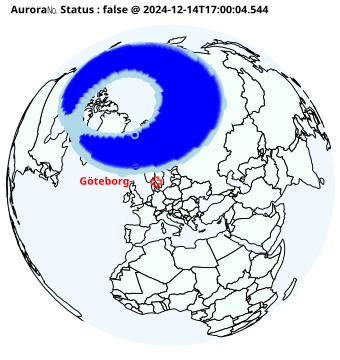
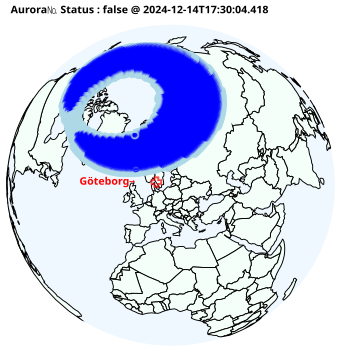
20241214173017 added aur.html

diff --git a/aur.html b/aur.html
@@ -7,6 +7,6 @@
 <body>
     <h1>Aurora Watch</h1>
     <img src="a.png" alt="Aurora Image" style="width:100%;max-width:600px;">
-    <p>Aurora Level 🌌= (0.5) was observed. (2024-12-14T17:00:04.544)</p>
+    <p>Aurora Level 🌌= (1.0) was observed. (2024-12-14T17:30:04.418)</p>
 </body>
 </html>
